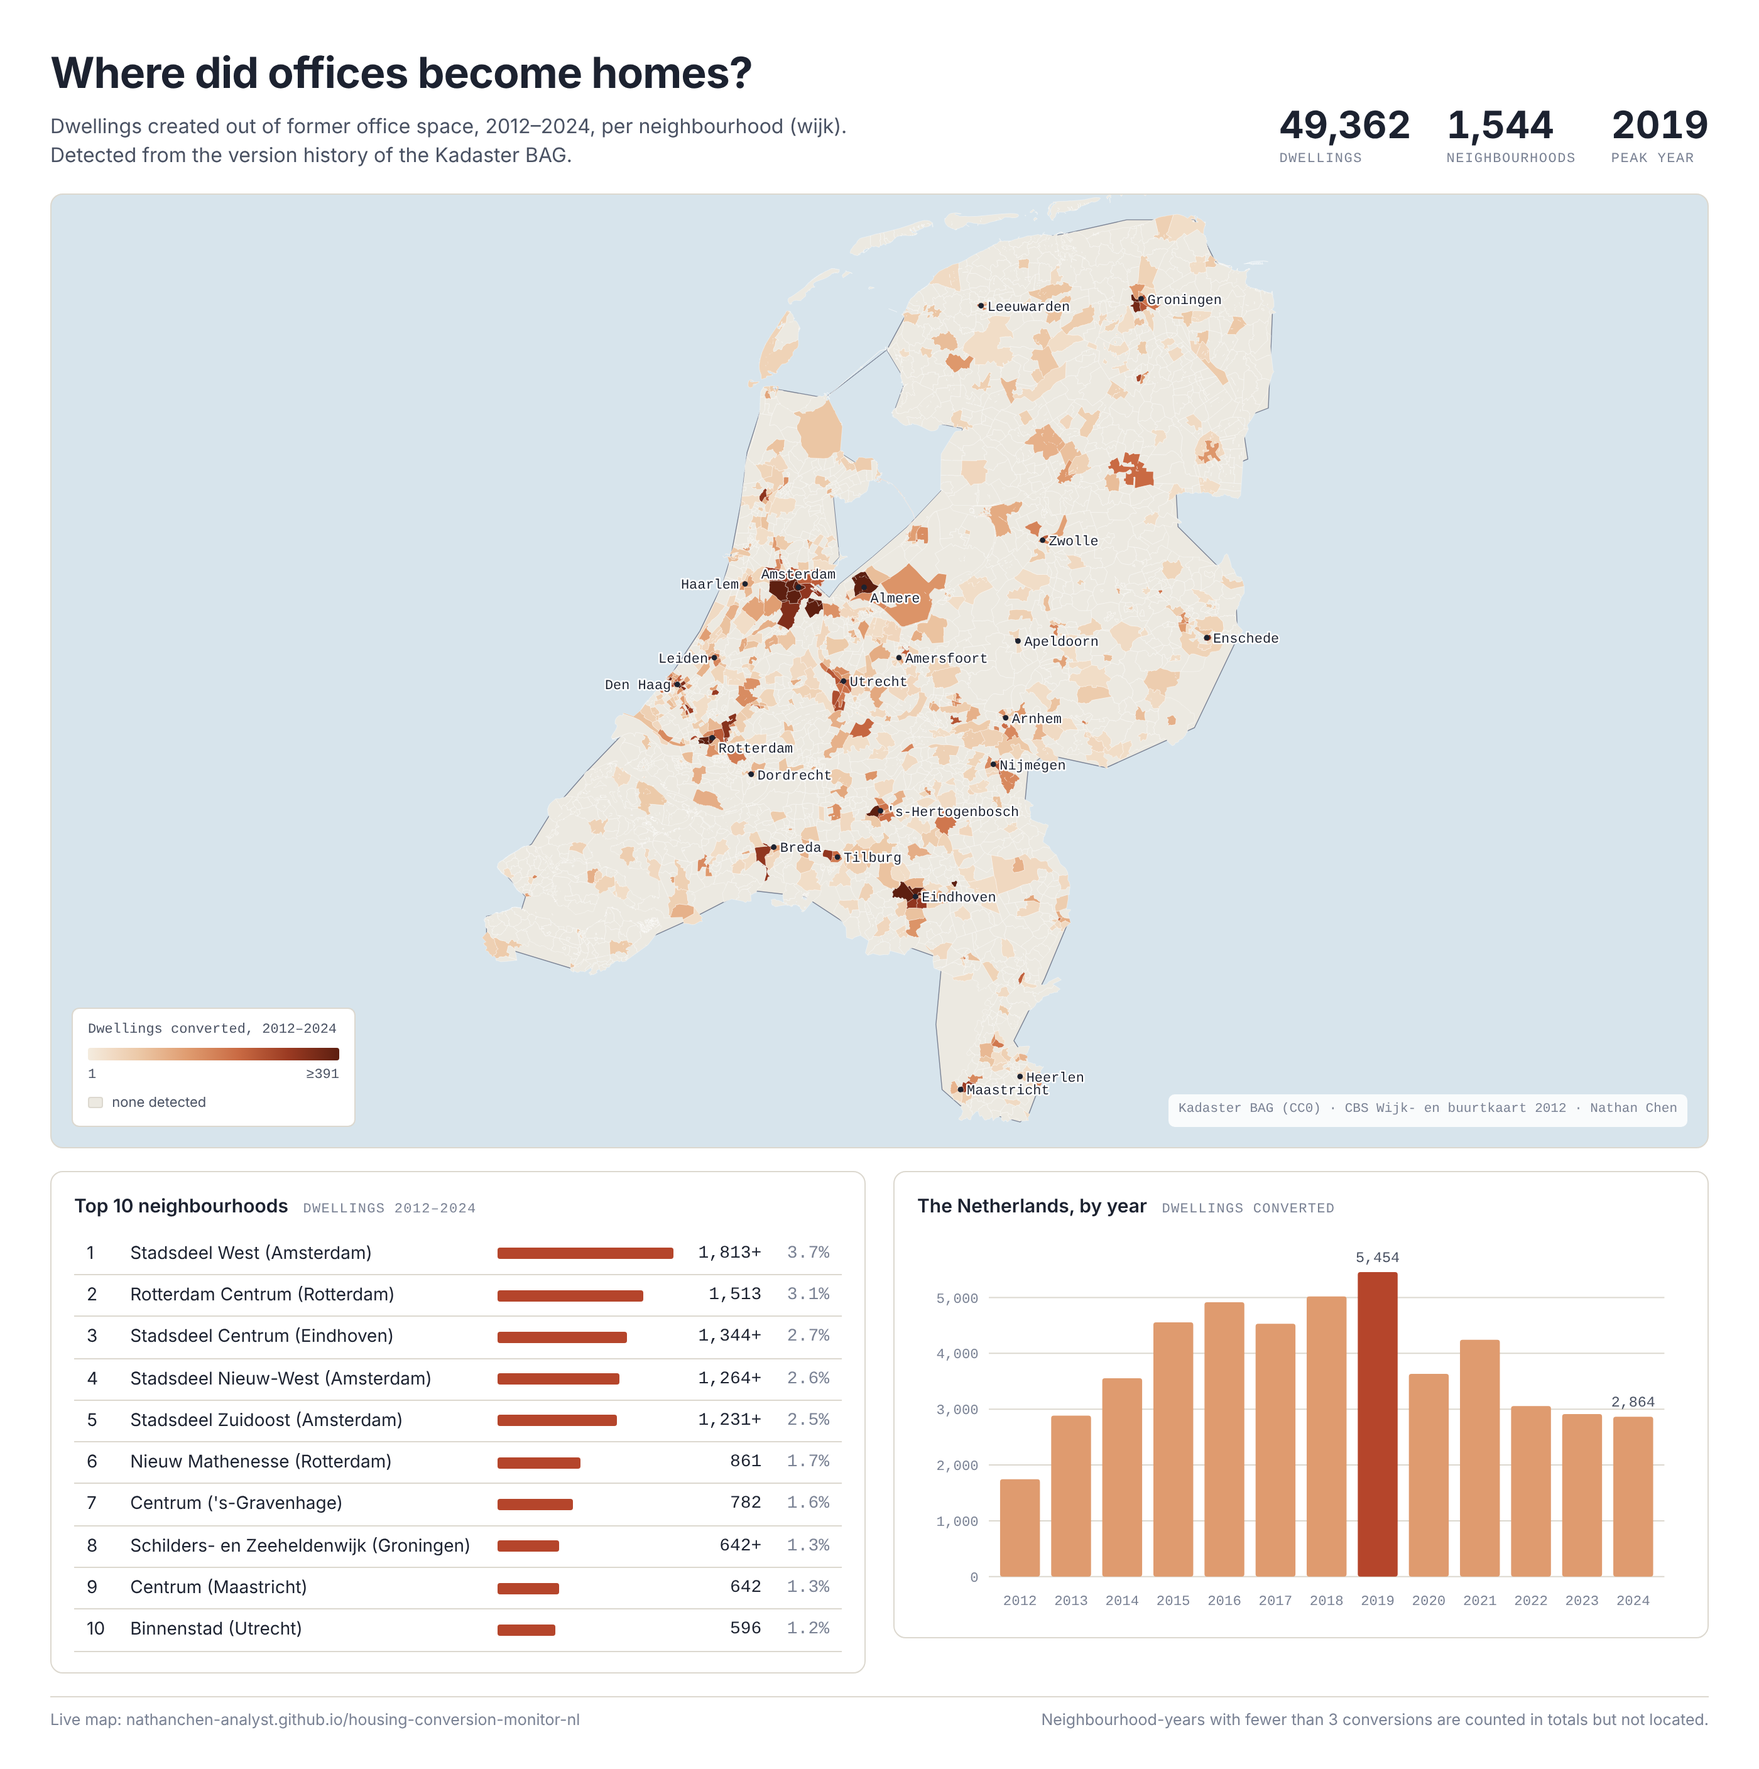
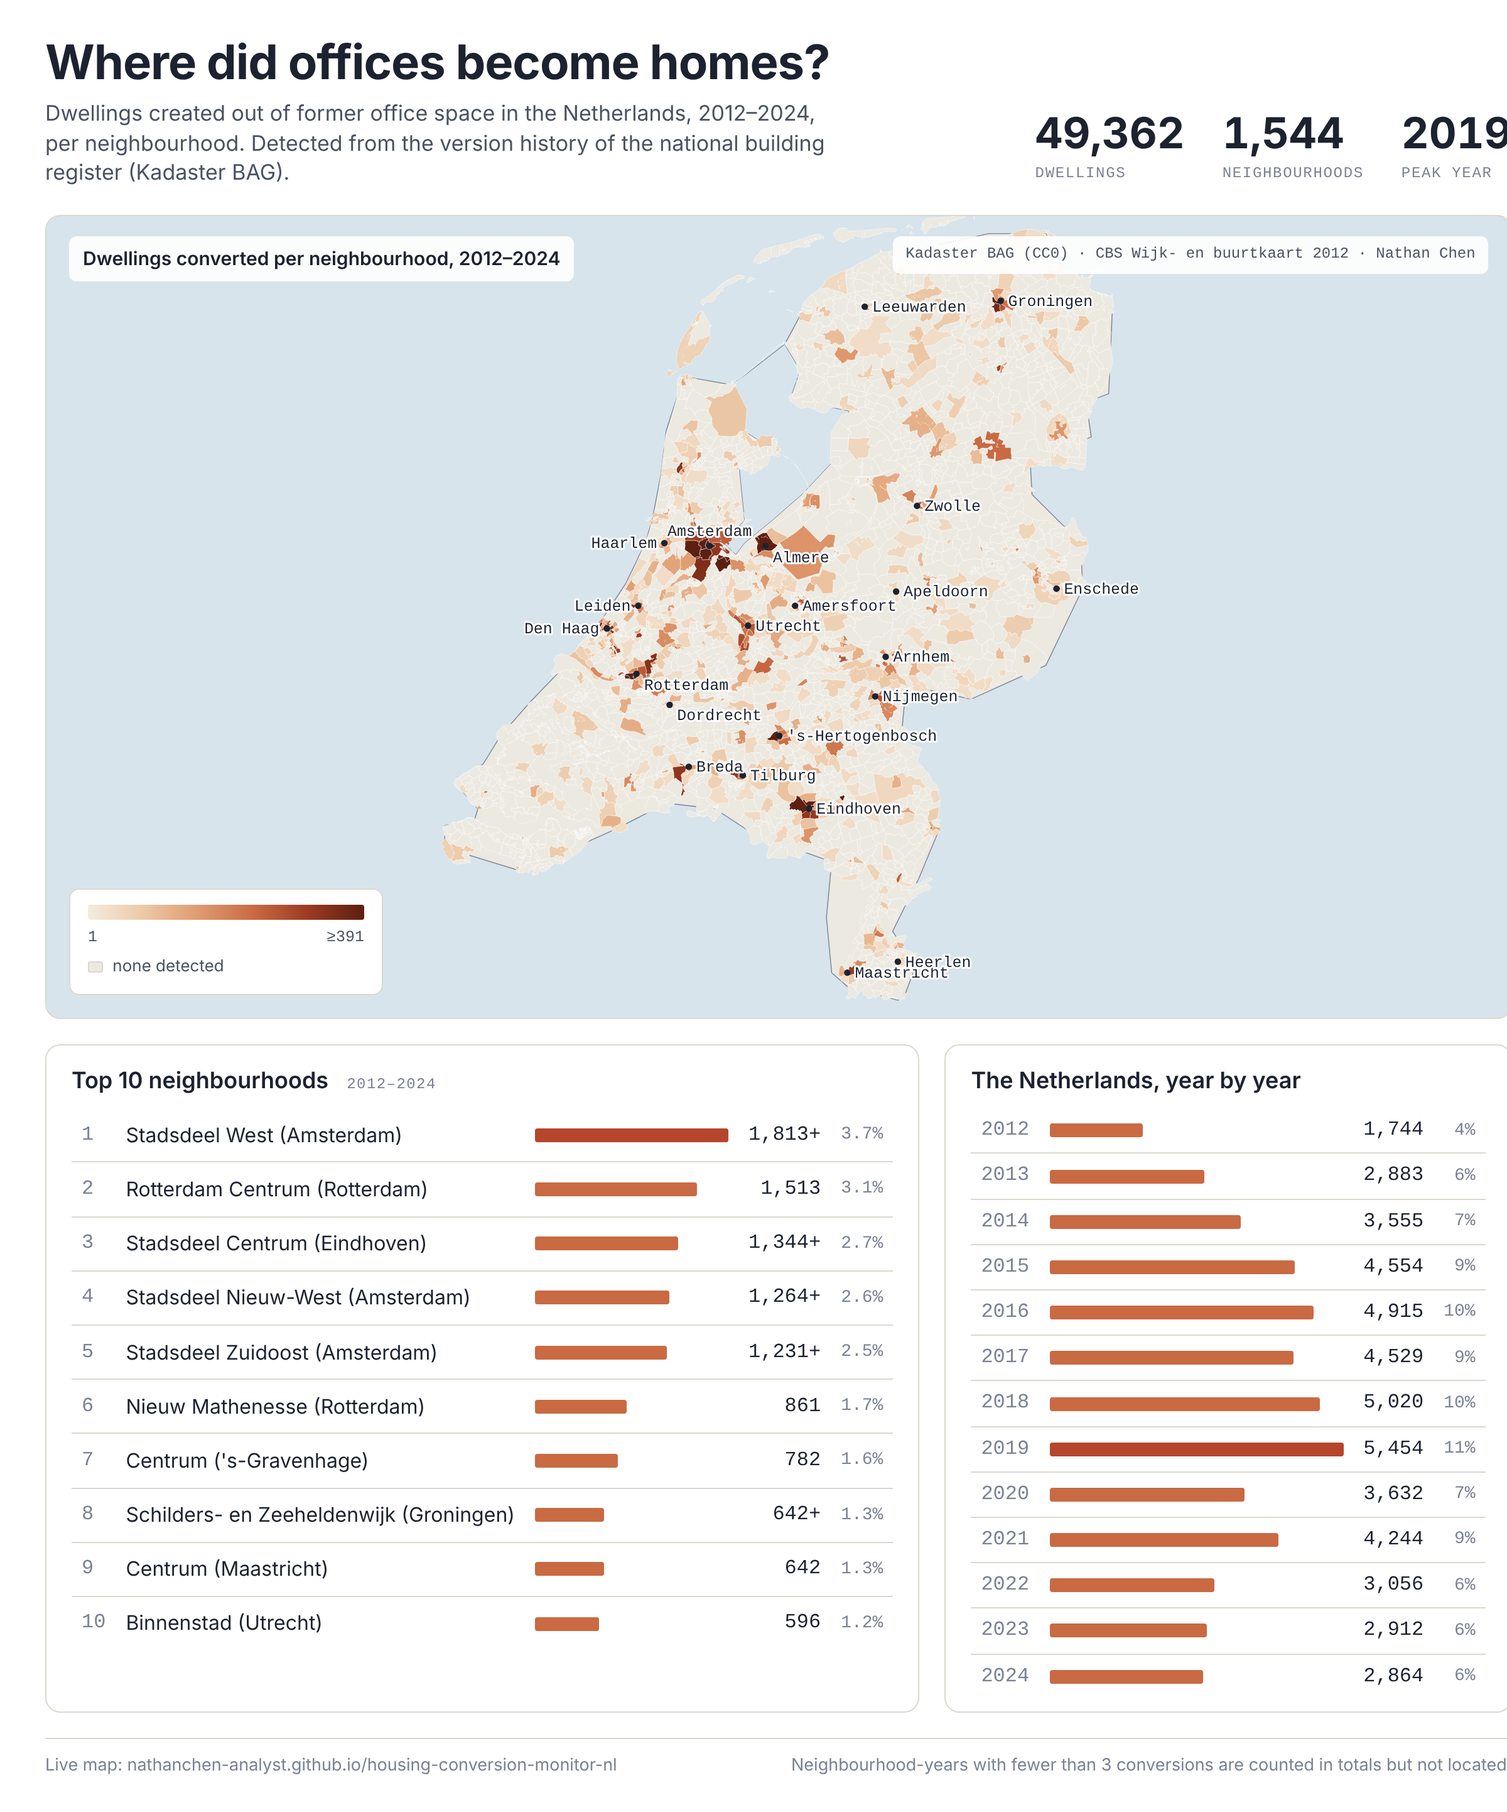
Play button on the dashboard; README graphic redesigned: tighter map, two tables side by side, larger type

diff --git a/docs/poster.html b/docs/poster.html
@@ -6,37 +6,43 @@
 <link rel="stylesheet" href="https://fonts.googleapis.com/css2?family=Public+Sans:wght@400;500;600;700&family=DM+Mono:wght@400;500&display=swap">
 <link rel="stylesheet" href="style.css">
 <style>
-  /* Static poster for the README: light theme only, fixed width, no controls. */
+  /* Static poster for the README. GitHub shows it at ~60% width, so type is deliberately large. */
   :root { color-scheme: light; }
   body { background: #ffffff; padding: 0; }
-  #poster { width: 1400px; padding: 34px 40px 30px; background: #ffffff; color: var(--ink); display: grid; gap: 18px; }
+  #poster { width: 1200px; padding: 30px 36px 26px; background: #ffffff; color: var(--ink); display: grid; gap: 20px; font-size: 16px; }
   .p-head { display: flex; justify-content: space-between; align-items: flex-end; gap: 24px; }
-  .p-head h1 { font-size: 34px; margin: 0; letter-spacing: -0.015em; }
-  .p-head .sub { font-size: 16px; margin: 6px 0 0; color: var(--ink-2); max-width: 70ch; }
-  .p-kpis { display: flex; gap: 28px; }
-  .p-kpis .v { font-size: 30px; font-weight: 700; font-variant-numeric: tabular-nums; line-height: 1; }
-  .p-kpis .k { font-family: var(--font-mono); font-size: 11px; letter-spacing: .07em; text-transform: uppercase; color: var(--ink-3); margin-top: 5px; }
-  .p-map { position: relative; height: 760px; background: var(--water); border-radius: 10px; overflow: hidden; border: 1px solid var(--line); }
+  .p-head h1 { font-size: 38px; margin: 0; letter-spacing: -0.015em; line-height: 1.1; }
+  .p-head .sub { font-size: 17px; margin: 8px 0 0; color: var(--ink-2); max-width: 58ch; line-height: 1.4; }
+  .p-kpis { display: flex; gap: 30px; padding-bottom: 4px; }
+  .p-kpis .v { font-size: 34px; font-weight: 700; font-variant-numeric: tabular-nums; line-height: 1; }
+  .p-kpis .k { font-family: var(--font-mono); font-size: 12px; letter-spacing: .07em; text-transform: uppercase; color: var(--ink-3); margin-top: 6px; }
+  .p-map { position: relative; height: 640px; background: var(--water); border-radius: 12px; overflow: hidden; border: 1px solid var(--line); }
   .p-map svg { width: 100%; height: 100%; display: block; }
-  .p-map .legend { left: 16px; bottom: 16px; font-size: 12.5px; padding: 10px 12px; }
-  .p-map .legend .bar { width: 200px; height: 10px; }
-  .p-map .legend .lbl { font-size: 11px; }
-  .p-map .src { position: absolute; right: 16px; bottom: 16px; font-family: var(--font-mono); font-size: 10.5px; color: var(--ink-3); background: rgba(255,255,255,.85); padding: 5px 8px; border-radius: 5px; }
-  .province { fill: none; stroke: #4a5263; stroke-width: 1.3; stroke-linejoin: round; vector-effect: non-scaling-stroke; opacity: .9; }
-  .area { stroke: #ffffff; stroke-width: .35; stroke-opacity: .55; }
-  .city-label { font-size: 11px; }
-  .p-below { display: grid; grid-template-columns: 1fr 1fr; gap: 22px; align-items: start; }
-  .p-card { border: 1px solid var(--line); border-radius: 10px; padding: 16px 18px; background: #fff; }
-  .p-card h3 { margin: 0 0 10px; font-size: 15px; font-weight: 600; }
-  .p-card h3 small { font-weight: 400; color: var(--ink-3); font-family: var(--font-mono); font-size: 11px; letter-spacing: .06em; text-transform: uppercase; margin-left: 8px; }
-  table { font-size: 14px; }
-  th, td { padding: 6px 10px; }
-  td.bar-cell { width: 160px; }
-  td.bar-cell i { display: block; height: 9px; background: var(--accent); border-radius: 2px; }
-  .p-chart svg { width: 100%; height: auto; display: block; }
-  .ax { font-family: var(--font-mono); font-size: 11px; fill: var(--ink-3); }
-  .annot { font-family: var(--font-mono); font-size: 11.5px; fill: var(--ink-2); }
-  .p-foot { display: flex; justify-content: space-between; font-size: 12.5px; color: var(--ink-3); border-top: 1px solid var(--line); padding-top: 10px; }
+  .p-map .legend { left: 18px; bottom: 18px; font-size: 14px; padding: 12px 14px; border-radius: 8px; }
+  .p-map .legend .bar { width: 220px; height: 12px; }
+  .p-map .legend .lbl { font-size: 12.5px; }
+  .p-map .legend .keys { font-size: 13px; }
+  .p-map .src { position: absolute; right: 18px; top: 16px; font-family: var(--font-mono); font-size: 12px; color: var(--ink-2); background: rgba(255,255,255,.9); padding: 6px 10px; border-radius: 6px; }
+  .p-map .ttl { position: absolute; left: 18px; top: 16px; font-size: 15px; font-weight: 600; background: rgba(255,255,255,.9); padding: 7px 11px; border-radius: 6px; }
+  .area { stroke: #ffffff; stroke-width: .4; stroke-opacity: .6; }
+  .city { r: 2.6; }
+  .city-label { font-size: 12.5px; stroke-width: 3px; }
+  .p-below { display: grid; grid-template-columns: 1fr 1fr; gap: 20px; align-items: stretch; }
+  .p-card { border: 1px solid var(--line); border-radius: 12px; padding: 16px 20px 10px; background: #fff; }
+  .p-card h3 { margin: 0 0 8px; font-size: 18px; font-weight: 600; }
+  .p-card h3 small { font-weight: 400; color: var(--ink-3); font-family: var(--font-mono); font-size: 12px; letter-spacing: .06em; text-transform: uppercase; margin-left: 10px; }
+  table { font-size: 16px; }
+  th, td { padding: 7px 8px; border-bottom: 1px solid var(--line); }
+  #top td { padding: 9.5px 8px; }
+  #years td { padding: 6px 8px; }
+  tr:last-child td { border-bottom: 0; }
+  td.rank { color: var(--ink-3); font-family: var(--font-mono); width: 2.2em; }
+  td.bar-cell { width: 170px; min-width: 170px; }
+  td.bar-cell i { display: block; height: 11px; background: var(--seq-3); border-radius: 2px; }
+  td.bar-cell i.hi { background: var(--accent); }
+  td.num { font-size: 16px; }
+  td.pct { color: var(--ink-3); font-size: 14px; }
+  .p-foot { display: flex; justify-content: space-between; font-size: 13.5px; color: var(--ink-3); border-top: 1px solid var(--line); padding-top: 12px; }
 </style>
 </head>
 <body>
@@ -44,7 +50,7 @@
   <div class="p-head">
     <div>
       <h1>Where did offices become homes?</h1>
-      <p class="sub">Dwellings created out of former office space, 2012–2024, per neighbourhood (wijk). Detected from the version history of the Kadaster BAG.</p>
+      <p class="sub">Dwellings created out of former office space in the Netherlands, 2012–2024, per neighbourhood. Detected from the version history of the national building register (Kadaster BAG).</p>
     </div>
     <div class="p-kpis">
       <div><div class="v" id="k-total">—</div><div class="k">dwellings</div></div>
@@ -54,9 +60,9 @@
   </div>
 
   <div class="p-map" id="mapbox">
-    <svg id="map" viewBox="0 0 1320 760" role="img" aria-label="Map"></svg>
+    <svg id="map" viewBox="0 0 1126 640" role="img" aria-label="Map"></svg>
+    <div class="ttl">Dwellings converted per neighbourhood, 2012–2024</div>
     <div class="legend">
-      <div class="lbl" id="lg-title">Dwellings converted, 2012–2024</div>
       <div class="bar" id="lg-bar"></div>
       <div class="lbl"><span>1</span><span id="lg-max">—</span></div>
       <div class="lbl keys"><span><i class="sw none"></i> none detected</span></div>
@@ -66,12 +72,12 @@
 
   <div class="p-below">
     <div class="p-card">
-      <h3>Top 10 neighbourhoods <small>dwellings 2012–2024</small></h3>
+      <h3>Top 10 neighbourhoods <small>2012–2024</small></h3>
       <table id="top"><tbody></tbody></table>
     </div>
     <div class="p-card">
-      <h3>The Netherlands, by year <small>dwellings converted</small></h3>
-      <div class="p-chart" id="chart"></div>
+      <h3>The Netherlands, year by year</h3>
+      <table id="years"><tbody></tbody></table>
     </div>
   </div>
 
@@ -84,21 +90,20 @@
 <script src="d3.v7.min.js"></script>
 <script>
 (async function () {
-  const W = 1320, H = 760, fmt = d3.format(",");
+  const W = 1126, H = 640, fmt = d3.format(",");
   const css = v => getComputedStyle(document.documentElement).getPropertyValue(v).trim();
   const load = async u => { const r = await fetch(u); if (!r.ok) throw new Error(u); return r.json(); };
   const data = await load("data/wijk_year_conversions.json");
   const geo = await load("data/wijken.geojson");
-  const provinces = await load("data/provincies.geojson").catch(() => null);
   const outline = await load("data/outline.geojson").catch(() => null);
   const cities = await load("data/cities.json").catch(() => []);
   const ringArea = r => { let a = 0; for (let i = 0; i < r.length - 1; i++) a += r[i][0] * r[i + 1][1] - r[i + 1][0] * r[i][1]; return a; };
   const rewind = fc => { for (const f of fc.features) { const g = f.geometry; if (!g) continue;
     const polys = g.type === "Polygon" ? [g.coordinates] : g.type === "MultiPolygon" ? g.coordinates : [];
     for (const poly of polys) poly.forEach((ring, i) => { const a = ringArea(ring); if ((i === 0 && a > 0) || (i > 0 && a < 0)) ring.reverse(); }); } return fc; };
-  rewind(geo); if (outline) rewind(outline); if (provinces) rewind(provinces);
+  rewind(geo); if (outline) rewind(outline);
 
-  const YEARS = data.meta.years.map(Number), Y0 = YEARS[0], Y1 = YEARS[YEARS.length - 1];
+  const YEARS = data.meta.years.map(Number);
   const feats = geo.features;
   for (const f of feats) {
     const a = data.areas[f.properties.wijk_code];
@@ -115,8 +120,8 @@
   document.getElementById("k-wijken").textContent = fmt(feats.filter(f => f.hasData).length);
   document.getElementById("k-peak").textContent = peakY;
 
-  // map
-  const proj = d3.geoMercator().fitExtent([[30, 20], [W - 30, H - 20]], outline || geo);
+  // map: fit the land tightly (the country is taller than wide, so give it the full height)
+  const proj = d3.geoMercator().fitExtent([[220, 14], [W - 220, H - 14]], outline || geo);
   const path = d3.geoPath(proj);
   const svg = d3.select("#map");
   if (outline) svg.selectAll("path.bg").data(outline.features).join("path").attr("class", d => d.properties.kind === "water" ? "water" : "land").attr("d", path);
@@ -126,35 +131,26 @@
   const scale = v => s(Math.sqrt(Math.min(1, v / hi)));
   svg.append("g").selectAll("path").data(feats).join("path").attr("class", "area").attr("d", path)
     .attr("fill", d => d.total > 0 ? scale(d.total) : "var(--land)");
-  if (provinces) svg.append("g").selectAll("path").data(provinces.features).join("path").attr("class", "province").attr("d", path);
   const big = cities.filter(c => c.w >= 0.2).map(c => ({ ...c, xy: proj([c.lon, c.lat]) }));
+  const place = { Haarlem: [-6, 4, "end"], Amsterdam: [0, -8, "middle"], Almere: [6, 13, "start"], "Den Haag": [-6, 4, "end"], Leiden: [-6, 4, "end"], Rotterdam: [6, 13, "start"], Dordrecht: [6, 12, "start"] };
   const cg = svg.append("g");
-  cg.selectAll("circle").data(big).join("circle").attr("class", "city").attr("cx", d => d.xy[0]).attr("cy", d => d.xy[1]).attr("r", 2.2);
-  // nudge the three Randstad labels that would otherwise collide
-  const place = { Haarlem: [-5, 4, "end"], Amsterdam: [0, -7, "middle"], Almere: [5, 12, "start"], "Den Haag": [-5, 4, "end"], Leiden: [-5, 4, "end"], Rotterdam: [5, 12, "start"], Delft: [-5, 4, "end"] };
+  cg.selectAll("circle").data(big).join("circle").attr("class", "city").attr("cx", d => d.xy[0]).attr("cy", d => d.xy[1]).attr("r", 2.6);
   cg.selectAll("text").data(big).join("text").attr("class", "city-label")
-    .attr("x", d => d.xy[0] + (place[d.name] ? place[d.name][0] : 5)).attr("y", d => d.xy[1] + (place[d.name] ? place[d.name][1] : 4))
+    .attr("x", d => d.xy[0] + (place[d.name] ? place[d.name][0] : 6)).attr("y", d => d.xy[1] + (place[d.name] ? place[d.name][1] : 4))
     .attr("text-anchor", d => place[d.name] ? place[d.name][2] : "start").text(d => d.name);
   document.getElementById("lg-bar").style.background = `linear-gradient(90deg, ${d3.range(0, 1.001, 0.1).map(t => scale(t * t * hi)).join(",")})`;
   document.getElementById("lg-max").textContent = "≥" + fmt(Math.round(hi));
 
-  // top-10 table
+  // left table: top 10 neighbourhoods
   const top = feats.filter(f => f.total > 0).sort((a, b) => b.total - a.total).slice(0, 10);
   const mx = top[0].total;
   document.querySelector("#top tbody").innerHTML = top.map((f, i) =>
-    `<tr><td>${i + 1}</td><td>${f.name}</td><td class="bar-cell"><i style="width:${100 * f.total / mx}%"></i></td><td class="num">${fmt(f.total)}${f.plus ? "+" : ""}</td><td class="num" style="color:var(--ink-3)">${(f.total / nationalTotal * 100).toFixed(1)}%</td></tr>`).join("");
+    `<tr><td class="rank">${i + 1}</td><td>${f.name}</td><td class="bar-cell"><i class="${i === 0 ? "hi" : ""}" style="width:${100 * f.total / mx}%"></i></td><td class="num">${fmt(f.total)}${f.plus ? "+" : ""}</td><td class="num pct">${(f.total / nationalTotal * 100).toFixed(1)}%</td></tr>`).join("");
 
-  // national chart with the peak annotated
-  const w = 600, h = 300, mL = 56, mR = 16, mT = 28, mB = 32;
-  const xs = d3.scaleBand().domain(YEARS).range([mL, w - mR]).padding(0.22);
-  const ys = d3.scaleLinear().domain([0, d3.max(YEARS, y => national[y])]).nice().range([h - mB, mT]);
-  document.getElementById("chart").innerHTML = `<svg viewBox="0 0 ${w} ${h}">
-    ${ys.ticks(4).map(t => `<line x1="${mL}" x2="${w - mR}" y1="${ys(t)}" y2="${ys(t)}" stroke="var(--line)"/><text class="ax" x="${mL - 8}" y="${ys(t) + 4}" text-anchor="end">${fmt(t)}</text>`).join("")}
-    ${YEARS.map(y => `<rect x="${xs(y)}" y="${ys(national[y])}" width="${xs.bandwidth()}" height="${ys(0) - ys(national[y])}" rx="2" fill="${y === peakY ? "var(--accent)" : "var(--seq-2)"}"/>`).join("")}
-    ${YEARS.map(y => `<text class="ax" x="${xs(y) + xs.bandwidth() / 2}" y="${h - 10}" text-anchor="middle">${y}</text>`).join("")}
-    <text class="annot" x="${xs(peakY) + xs.bandwidth() / 2}" y="${ys(national[peakY]) - 8}" text-anchor="middle">${fmt(national[peakY])}</text>
-    <text class="annot" x="${xs(Y1) + xs.bandwidth() / 2}" y="${ys(national[Y1]) - 8}" text-anchor="middle">${fmt(national[Y1])}</text>
-  </svg>`;
+  // right table: year by year, with inline bars and the peak highlighted
+  const my = Math.max(...YEARS.map(y => national[y]));
+  document.querySelector("#years tbody").innerHTML = YEARS.map(y =>
+    `<tr><td class="rank">${y}</td><td class="bar-cell" style="width:250px;min-width:250px"><i class="${y === peakY ? "hi" : ""}" style="width:${100 * national[y] / my}%"></i></td><td class="num">${fmt(national[y])}</td><td class="num pct">${(national[y] / nationalTotal * 100).toFixed(0)}%</td></tr>`).join("");
   document.body.dataset.ready = "1";
 })();
 </script>

diff --git a/docs/app.js b/docs/app.js
@@ -110,7 +110,15 @@
   for (const [id, m] of [["m-pred", "year"], ["m-act", "cum"]]) {
     $(id).onclick = () => { mode = m; document.querySelectorAll(".seg button").forEach(b => b.setAttribute("aria-pressed", "false")); $(id).setAttribute("aria-pressed", "true"); paint(); };
   }
-  yearInput.oninput = () => { year = +yearInput.value; $("year-out").textContent = year; paint(); };
+  const setYear = y => { year = y; yearInput.value = y; $("year-out").textContent = y; paint(); };
+  yearInput.oninput = () => setYear(+yearInput.value);
+  let timer = null;
+  $("play").onclick = () => {
+    if (timer) { clearInterval(timer); timer = null; $("play").textContent = "▶"; $("play").setAttribute("aria-pressed", "false"); return; }
+    if (year >= Y1) setYear(Y0);
+    $("play").textContent = "❚❚"; $("play").setAttribute("aria-pressed", "true");
+    timer = setInterval(() => { if (year >= Y1) { $("play").onclick(); return; } setYear(year + 1); }, 800);
+  };
   if (window.matchMedia) window.matchMedia("(prefers-color-scheme: dark)").addEventListener("change", paint);
 
   // ---------- tooltip ----------

diff --git a/docs/style.css b/docs/style.css
@@ -154,3 +154,7 @@ header { align-items: flex-start; }
 
 /* province outlines (drawn when data/provincies.geojson exists) */
 .province { fill: none; stroke: var(--ink-2); stroke-width: 1.1; stroke-linejoin: round; vector-effect: non-scaling-stroke; pointer-events: none; opacity: .85; }
+
+/* play button */
+.play { appearance: none; width: 28px; height: 28px; border: 1px solid var(--line); border-radius: 50%; background: var(--surface); color: var(--ink); font-size: 11px; cursor: pointer; padding: 0; margin-right: 2px; }
+.play[aria-pressed="true"] { background: var(--ink); color: var(--bg); }

diff --git a/docs/index.html b/docs/index.html
@@ -26,7 +26,8 @@
           <button type="button" id="m-pred" aria-pressed="false">Per year</button>
           <button type="button" id="m-act" aria-pressed="true">Cumulative</button>
         </div>
-        <label class="yearctl">Year
+        <label class="yearctl">
+          <button type="button" id="play" class="play" aria-label="Play years" title="Play 2012–2024">▶</button>
           <input type="range" id="year" min="2012" max="2024" step="1" value="2024">
           <output id="year-out">2024</output>
         </label>
